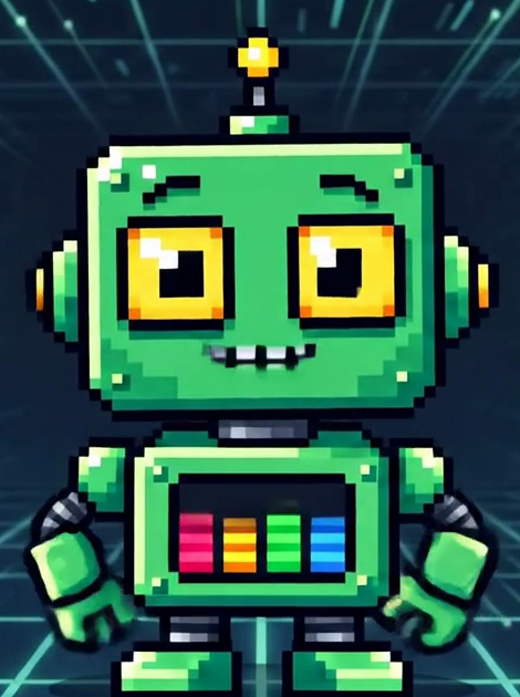
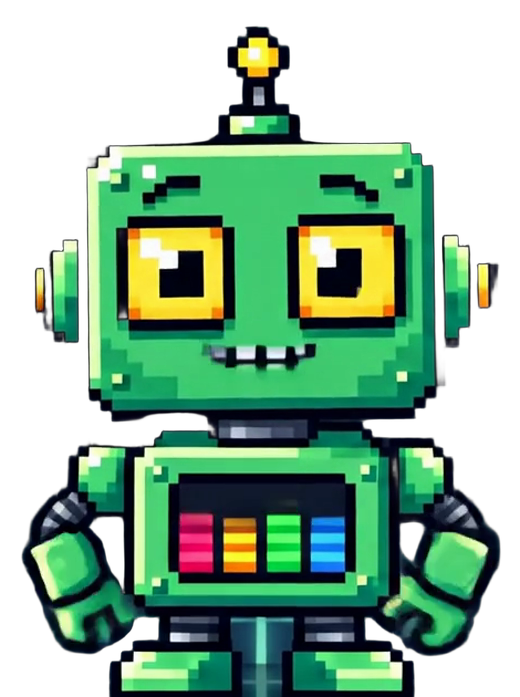
Polish pass (a11y/readability), cut out mascot background, remove preview
- Fix failing fine-print contrast (--text-dim 2.24:1 -> 4.89:1), cap reading
  line length on dense panels (Bit 150 stems/explanations, section subs to
  ~66 chars), add prefers-reduced-motion across index/bit-150/triage.
- Replace the mascot still with a background-removed cutout (transparent PNG)
  and swap the framed box for a soft drop-shadow.
- Remove the /preview/ A-vs-B themes demo.

https://claude.ai/code/session_01D1Z4qTzEUwidVb9rR45jTz

diff --git a/bit-150/index.html b/bit-150/index.html
@@ -13,10 +13,13 @@
  --teal:#00E5A0; --teal-dim:#1A8A6A; --teal-soft:rgba(0, 229, 160, .08);
  --gold:#F5A623; --gold-soft:rgba(245, 166, 35, .08);
  --red:#FF4757; --green:#2ED573; --blue:#4D9FFF; --purple:#A855F7;
- --text:#E8F4F0; --text-muted:#8AAFC0; --text-dim:#3A5570;
+ --text:#E8F4F0; --text-muted:#8AAFC0; --text-dim:#6F8CA0;
  --mono:'Courier New', Courier, monospace;
  --sans:-apple-system, BlinkMacSystemFont, 'Segoe UI', system-ui, sans-serif;
  --r:8px;
+}
+@media (prefers-reduced-motion: reduce){
+ *,*::before,*::after{animation-duration:.001ms!important;animation-iteration-count:1!important;transition-duration:.001ms!important;scroll-behavior:auto!important;}
 }
 *,*::before,*::after{box-sizing:border-box;margin:0;padding:0;}
 body{background:var(--bg);color:var(--text);font-family:var(--sans);line-height:1.6;-webkit-font-smoothing:antialiased;}
@@ -73,7 +76,7 @@ button{font-family:inherit;cursor:pointer;color:inherit;}
 .markbtn.on{background:var(--gold-soft);border-color:var(--gold);color:var(--gold);}
 .endbtn{background:transparent;border:1px solid var(--red);color:var(--red);padding:6px 12px;border-radius:var(--r);font-family:var(--mono);font-size:11px;}
 .qmeta{font-family:var(--mono);font-size:11px;color:var(--text-dim);margin:1.5rem 0 .6rem;letter-spacing:.5px;}
-.qstem{font-size:16px;line-height:1.75;color:var(--text);margin-bottom:1.4rem;}
+.qstem{font-size:16px;line-height:1.75;color:var(--text);margin-bottom:1.4rem;max-width:54ch;}
 .choices{display:flex;flex-direction:column;gap:.6rem;}
 .choice{display:flex;gap:.7rem;align-items:flex-start;text-align:left;background:var(--bg-card);border:1px solid var(--border);color:var(--text);padding:.85rem 1rem;border-radius:var(--r);font-size:14.5px;line-height:1.5;transition:all .12s;}
 .choice:hover:not(:disabled){border-color:var(--border-bright);}
@@ -86,7 +89,7 @@ button{font-family:inherit;cursor:pointer;color:inherit;}
 .choice:disabled{cursor:default;}
 
 /* ===== explanation (matches homepage) ===== */
-.expl{background:var(--bg-card);border:1px solid rgba(0,229,160,.2);border-radius:var(--r);padding:1.3rem;margin-top:1.4rem;font-size:13.5px;line-height:1.7;color:var(--text-muted);}
+.expl{background:var(--bg-card);border:1px solid rgba(0,229,160,.2);border-radius:var(--r);padding:1.3rem;margin-top:1.4rem;font-size:14px;line-height:1.7;color:var(--text-muted);max-width:58ch;}
 .expl b{color:var(--text);}
 .expl .ped-sec{margin-bottom:.7rem;}
 .expl .ped-takeaway{background:var(--gold-soft);border-left:3px solid var(--gold);padding:.7rem 1rem;margin-top:.8rem;color:var(--text);}
@@ -135,7 +138,7 @@ button{font-family:inherit;cursor:pointer;color:inherit;}
 .rev-body{display:none;padding:0 1.1rem 1.1rem;}
 .rev-item.open .rev-body{display:block;}
 .rev-item.open .arr{transform:rotate(180deg);}
-.rev-stem{font-size:14px;color:var(--text-muted);line-height:1.7;margin-bottom:1rem;padding-top:.4rem;border-top:1px solid var(--border);}
+.rev-stem{font-size:14px;color:var(--text-muted);line-height:1.7;margin-bottom:1rem;padding-top:.4rem;border-top:1px solid var(--border);max-width:58ch;}
 .rev-ans{font-family:var(--mono);font-size:12px;margin-bottom:.3rem;}
 .rev-ans .you{color:var(--red);}
 .rev-ans .you.ok{color:var(--green);}

diff --git a/index.html b/index.html
@@ -21,10 +21,13 @@
  --teal:#00E5A0; --teal-dim:#1A8A6A; --teal-soft:rgba(0, 229, 160, .08);
  --gold:#F5A623; --gold-soft:rgba(245, 166, 35, .08);
  --red:#FF4757; --green:#2ED573; --blue:#4D9FFF; --purple:#A855F7;
- --text:#E8F4F0; --text-muted:#8AAFC0; --text-dim:#3A5570;
+ --text:#E8F4F0; --text-muted:#8AAFC0; --text-dim:#6F8CA0;
  --mono:'Courier New', Courier, monospace;
  --sans:-apple-system, BlinkMacSystemFont, 'Segoe UI', system-ui, sans-serif;
  --r:8px;
+}
+@media (prefers-reduced-motion: reduce){
+ *,*::before,*::after{animation-duration:.001ms!important;animation-iteration-count:1!important;transition-duration:.001ms!important;scroll-behavior:auto!important;}
 }
 html{scroll-behavior:smooth;}
 body{
@@ -116,7 +119,7 @@ nav{
 .sec-hdr{margin-bottom:3rem;max-width:720px;}
 .sec-tag{font-family:var(--mono);font-size:10px;color:var(--teal);letter-spacing:2px;text-transform:uppercase;margin-bottom:12px;}
 .sec-title{font-family:var(--mono);font-size:clamp(24px, 3vw, 36px);font-weight:bold;color:var(--text);line-height:1.2;margin-bottom:1rem;}
-.sec-sub{font-size:15.5px;color:var(--text-muted);line-height:1.8;}
+.sec-sub{font-size:15.5px;color:var(--text-muted);line-height:1.7;max-width:52ch;}
 
 .pause{text-align:center;padding:4.5rem 2rem;max-width:820px;margin:0 auto;}
 .pause h2{font-family:var(--sans);font-size:clamp(22px, 3vw, 32px);font-weight:600;color:var(--text);margin-bottom:.7rem;line-height:1.3;}
@@ -447,7 +450,7 @@ footer{background:var(--bg-card);border-top:1px solid var(--border);padding:2.5r
  </div>
  <div class="mascot-wrap">
  <div class="mascot-glow"></div>
- <img class="mascot-svg" src="/bit-mascot.png" alt="Bit — your reasoning engine" style="border-radius:12px;border:1px solid var(--border-bright);box-shadow:0 6px 24px rgba(0,0,0,.35);" />
+ <img class="mascot-svg" src="/bit-mascot.png" alt="Bit — your reasoning engine" style="filter:drop-shadow(0 8px 18px rgba(0,0,0,.45));" />
  <div class="mascot-lore">
  <strong>MEET BIT</strong>
  Your reasoning engine.

diff --git a/triage/index.html b/triage/index.html
@@ -12,10 +12,13 @@
  --teal:#00E5A0; --teal-dim:#1A8A6A; --teal-soft:rgba(0, 229, 160, .08);
  --gold:#F5A623; --gold-soft:rgba(245, 166, 35, .08);
  --red:#FF4757; --green:#2ED573; --blue:#4D9FFF; --purple:#A855F7;
- --text:#E8F4F0; --text-muted:#8AAFC0; --text-dim:#3A5570;
+ --text:#E8F4F0; --text-muted:#8AAFC0; --text-dim:#6F8CA0;
  --mono:'Courier New', Courier, monospace;
  --sans:-apple-system, BlinkMacSystemFont, 'Segoe UI', system-ui, sans-serif;
  --r:8px;
+}
+@media (prefers-reduced-motion: reduce){
+ *,*::before,*::after{animation-duration:.001ms!important;animation-iteration-count:1!important;transition-duration:.001ms!important;scroll-behavior:auto!important;}
 }
 *,*::before,*::after{box-sizing:border-box;margin:0;padding:0;}
 body{background:var(--bg);color:var(--text);font-family:var(--sans);line-height:1.6;-webkit-font-smoothing:antialiased;}